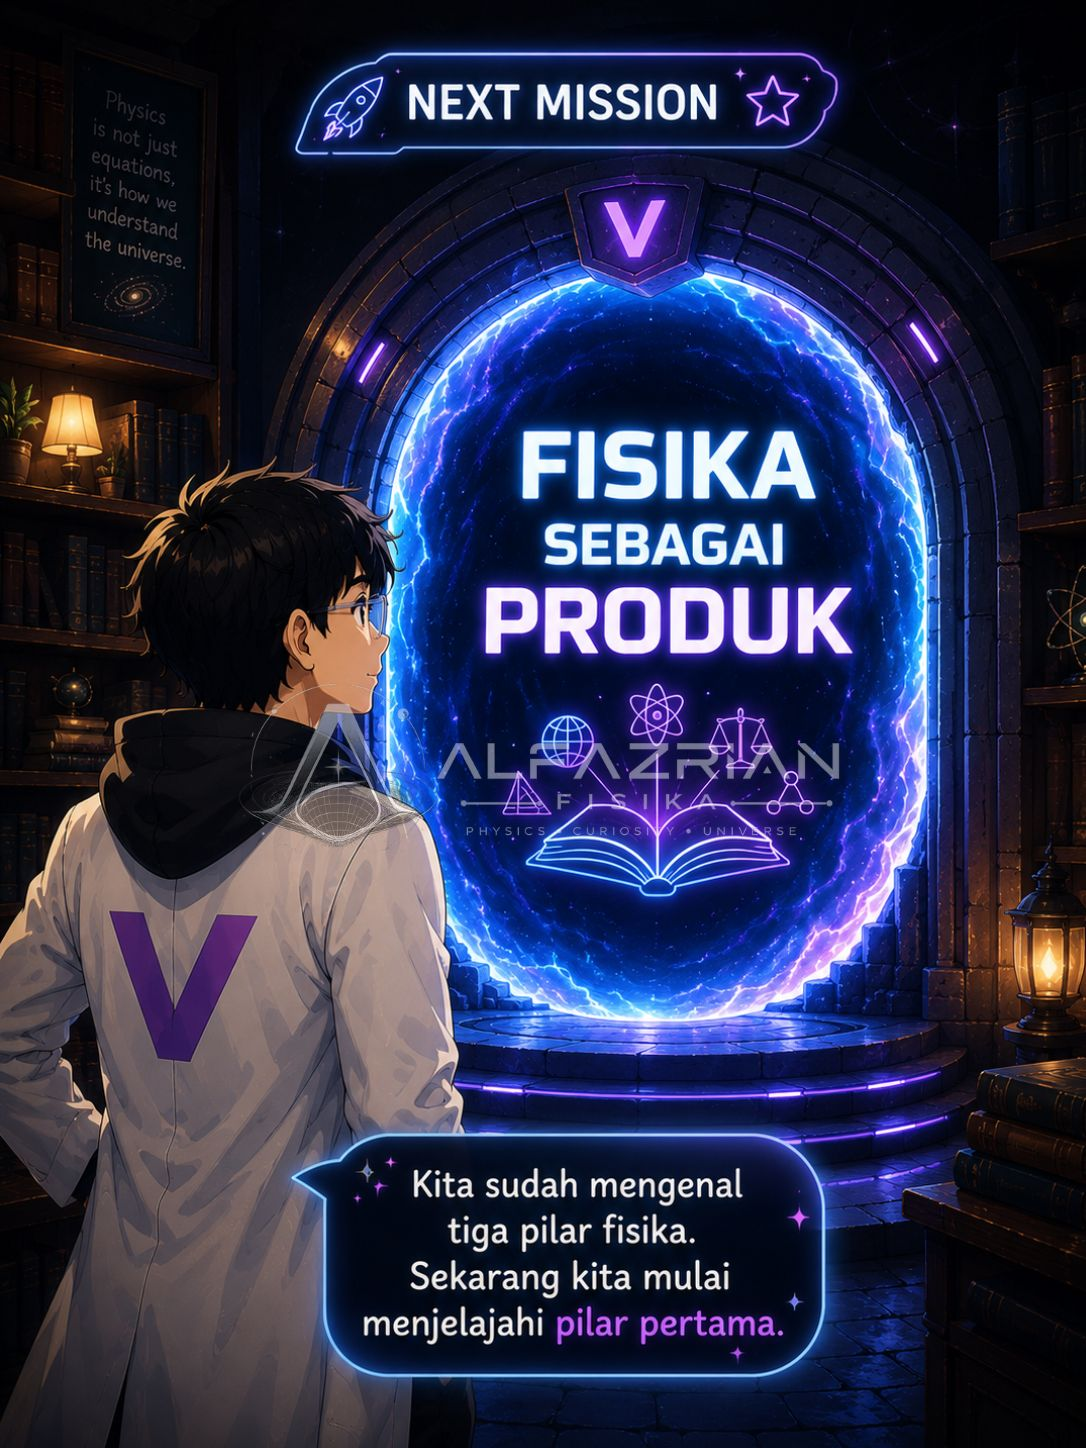
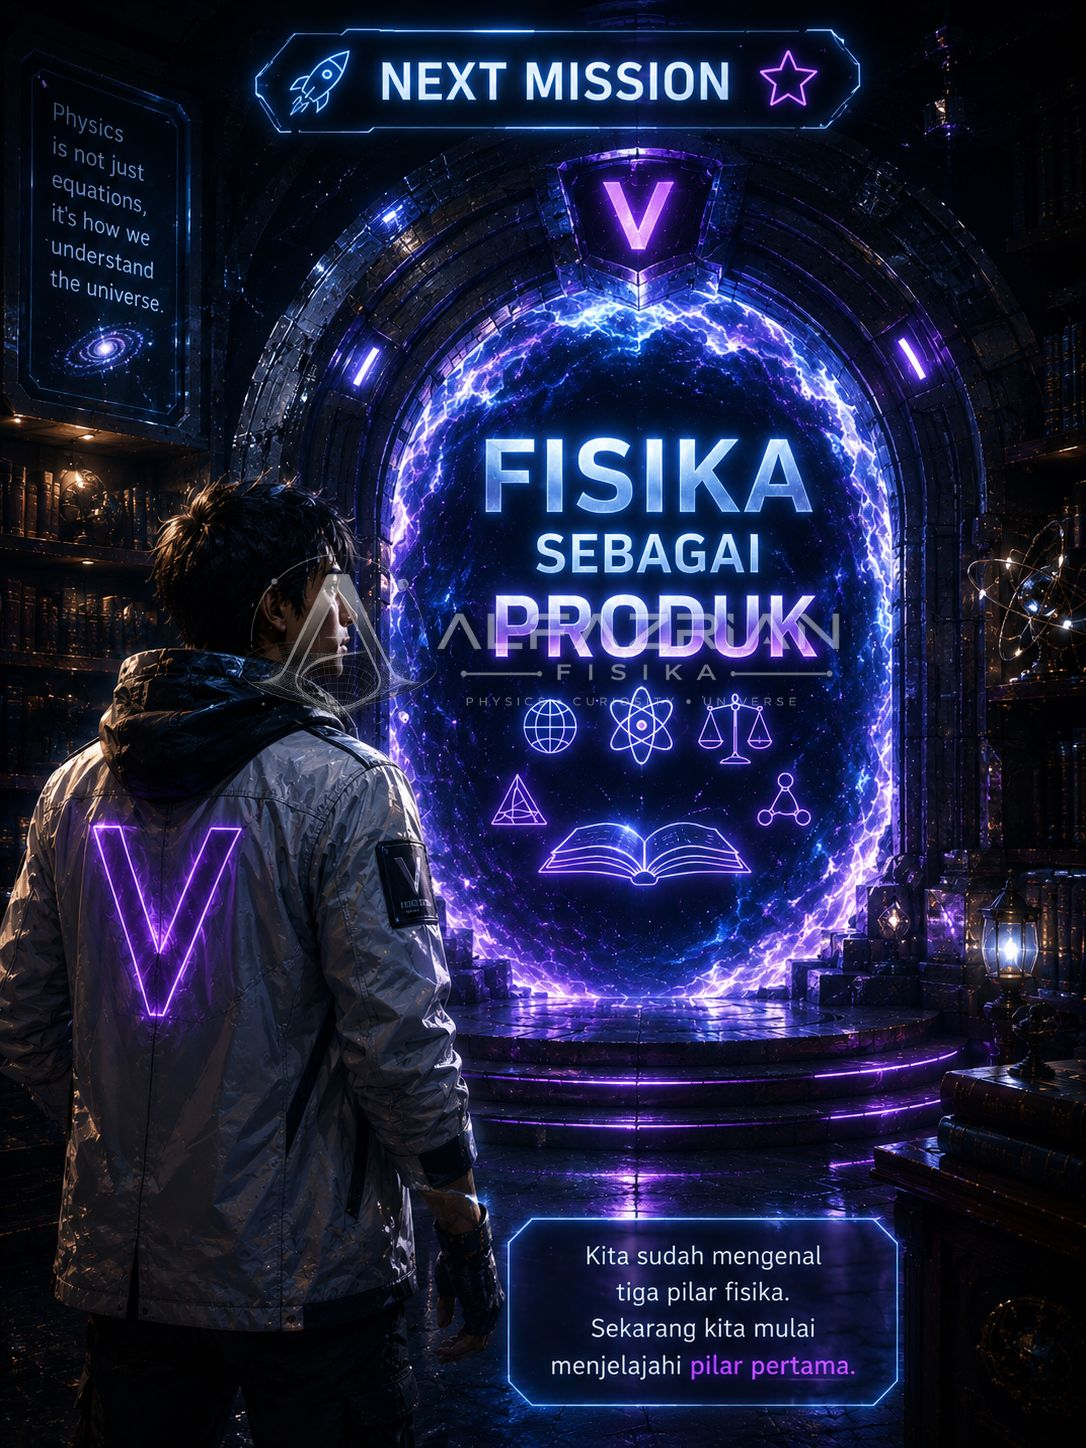
manda imoett

diff --git a/src/content/simulasi/VektorDasarSimulation/VirLabVektorDasarSimulation.jsx b/src/content/simulasi/VektorDasarSimulation/VirLabVektorDasarSimulation.jsx
@@ -129,10 +129,10 @@ export default function VirLabVectorExplorer() {
   const rightY = tipY - arrowLength * Math.sin(angleRad) + arrowWidth * Math.cos(angleRad)
 
   return (
-    <div className="max-w-6xl mx-auto rounded-3xl border border-white/10 bg-gradient-to-br from-slate-900 via-slate-900 to-cyan-950/40 p-6 text-white">
+    <div className="max-w-6xl mx-auto rounded-3xl hud-frame border border-violet-400/20 bg-gradient-to-br from-[#05060f] via-[#0b0e1f] to-[#1a0b2e] p-6 text-white">
       <div className="flex flex-wrap items-start justify-between gap-3 mb-2">
         <div>
-          <h2 className="text-3xl font-bold flex items-center gap-2">
+          <h2 className="font-display text-2xl md:text-3xl font-black flex items-center gap-2 [text-shadow:0_0_24px_rgba(139,59,255,0.45)]">
             <span>🧭</span> Vector Explorer
           </h2>
           <p className="text-white/60 mt-1">
@@ -156,11 +156,11 @@ export default function VirLabVectorExplorer() {
       <div className="grid lg:grid-cols-3 gap-6 mt-6">
         {/* SVG / Simulasi */}
         <div className="lg:col-span-2">
-          <div className="rounded-2xl bg-black/20 p-4">
+          <div className="rounded-2xl bg-white/[0.03] border border-violet-400/10 p-4">
             <svg
               ref={svgRef}
               viewBox={`0 0 ${size} ${size}`}
-              className="w-full bg-slate-900 rounded-xl border border-white/10 touch-none select-none"
+              className="w-full bg-[#05060f] rounded-xl border border-cyan-400/15 touch-none select-none"
               onMouseMove={handleMouseMove}
               onMouseUp={() => setDragging(false)}
               onMouseLeave={() => setDragging(false)}
@@ -294,7 +294,7 @@ export default function VirLabVectorExplorer() {
         {/* PANEL */}
         <div className="space-y-4 lg:sticky lg:top-4 self-start">
           {/* Pengaturan */}
-          <div className="rounded-2xl bg-black/20 p-5">
+          <div className="rounded-2xl bg-white/[0.03] border border-violet-400/10 p-5">
             <h3 className="font-semibold mb-3">🎛 Pengaturan Tampilan</h3>
 
             <ToggleRow label="Grid" checked={showGrid} onChange={() => setShowGrid(!showGrid)} />
@@ -303,7 +303,7 @@ export default function VirLabVectorExplorer() {
           </div>
 
           {/* Aksi cepat */}
-          <div className="rounded-2xl bg-black/20 p-5">
+          <div className="rounded-2xl bg-white/[0.03] border border-violet-400/10 p-5">
             <div className="grid grid-cols-2 gap-2">
               <button
                 onClick={handleReset}
@@ -321,15 +321,15 @@ export default function VirLabVectorExplorer() {
           </div>
 
           {/* Tabs */}
-          <div className="rounded-2xl bg-black/20 p-5">
+          <div className="rounded-2xl bg-white/[0.03] border border-violet-400/10 p-5">
             <div className="flex flex-wrap gap-2 mb-4">
               {tabs.map((tab) => (
                 <button
                   key={tab.id}
                   onClick={() => setActiveTab(tab.id)}
-                  className={`px-3 py-1.5 rounded-lg text-sm font-medium transition-colors ${
+                  className={`px-3 py-1.5 rounded-lg text-sm font-medium font-hud transition-colors ${
                     activeTab === tab.id
-                      ? "bg-cyan-500 text-white"
+                      ? "bg-gradient-to-r from-violet-500 to-violet-700 text-white"
                       : "bg-white/5 text-white/60 hover:bg-white/10"
                   }`}
                 >
@@ -398,7 +398,7 @@ function ToggleRow({ label, checked, onChange, last = false }) {
         type="checkbox"
         checked={checked}
         onChange={onChange}
-        className="w-4 h-4 accent-cyan-500"
+        className="w-4 h-4 accent-violet-500"
       />
     </label>
   )

diff --git a/src/content/materi/HakikatIlmuFisika/MengapaBelajarFisika.js b/src/content/materi/HakikatIlmuFisika/MengapaBelajarFisika.js
@@ -12,7 +12,7 @@ import nextmissionapaitufisikaImg from "/src/assets/Materi/HakikatIlmuFisika/Men
 
 const mengapabelajarfisika = {
   title: "Mengapa Belajar Fisika?",
-  slug: "mengapa belajar fisika",
+  slug: "mengapa-belajar-fisika",
   description: "Memahami mengapa fisika dipelajari dan bagaimana fisika membantu manusia memahami alam semesta.",
   chapter: "🔬 Hakikat Ilmu Fisika & Metode Ilmiah",
 
@@ -149,7 +149,7 @@ const mengapabelajarfisika = {
     {
       image: nextmissionapaitufisikaImg,
       caption: "🚀 KLIK GAMBAR INI! Kamu bisa menuju ke portal berikutnya.",
-      link: "/materi/apa%20itu%20fisika",
+      link: "/materi/apa-itu-fisika",
       body: [
         "Sekarang kita tahu mengapa fisika penting.",
         "",

diff --git a/src/content/materi/HakikatIlmuFisika/ApaItuFisika.js b/src/content/materi/HakikatIlmuFisika/ApaItuFisika.js
@@ -10,7 +10,7 @@ import cobatemukanImg from "/src/assets/Materi/HakikatIlmuFisika/ApaItuFisika9.j
 
 const apaitufisika = {
   title: "Apa Itu Fisika?",
-  slug: "apa itu fisika",
+  slug: "apa-itu-fisika",
   description: "Memahami pengertian fisika, objek kajiannya, dan perannya dalam memahami alam semesta.",
   chapter: "🔬 Hakikat Ilmu Fisika & Metode Ilmiah",
 
@@ -144,7 +144,7 @@ const apaitufisika = {
     {
       image: nextmissionhakikatilmufisikaImg,
       caption: "🚀 KLIK GAMBAR INI! Kamu bisa menuju ke portal berikutnya.",
-      link: "/materi/hakikat%20ilmu%20fisika",
+      link: "/materi/hakikat-ilmu-fisika",
       body: [
         "Sekarang kita sudah tahu apa yang dipelajari fisika.",
         "",

diff --git a/src/content/materi/HakikatIlmuFisika/FisikaSbgProduk.js b/src/content/materi/HakikatIlmuFisika/FisikaSbgProduk.js
@@ -2,7 +2,7 @@ import fisikasbgprodukImg from "/src/assets/Materi/HakikatIlmuFisika/FisikaSebag
 
 const fisikasebagaiproduk = {
   title: "Fisika sebagai Produk",
-  slug: "fisika sebagai produk",
+  slug: "fisika-sebagai-produk",
   description: "Memahami bahwa fisika menghasilkan berbagai bentuk pengetahuan ilmiah seperti fakta, konsep, hukum, prinsip, teori, dan model.",
   chapter: "🔬 Hakikat Ilmu Fisika & Metode Ilmiah",
 
